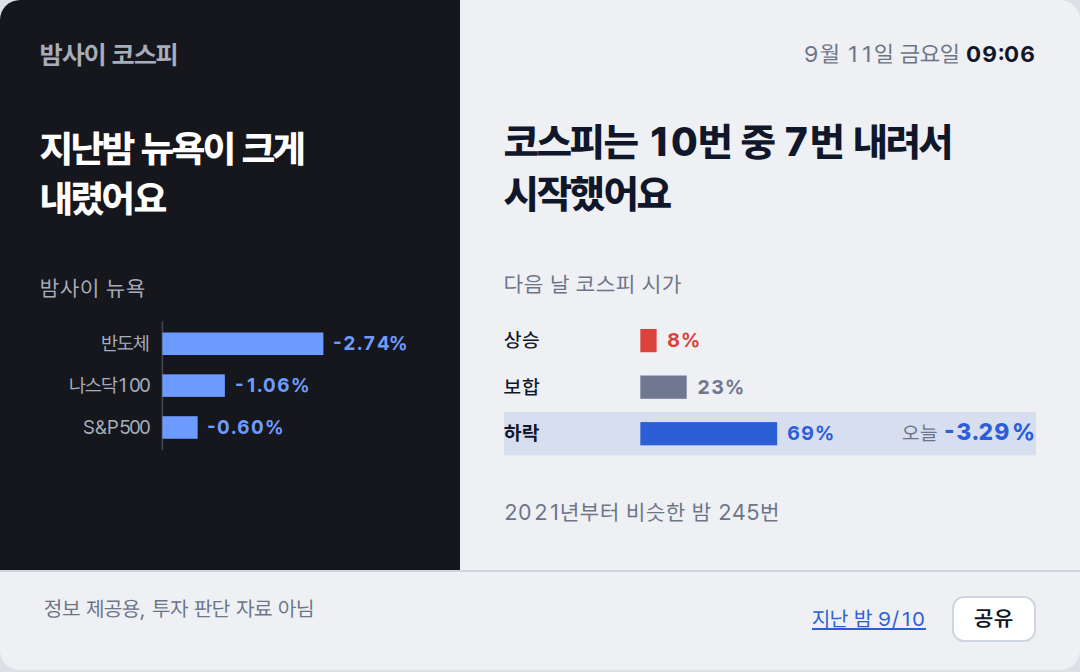
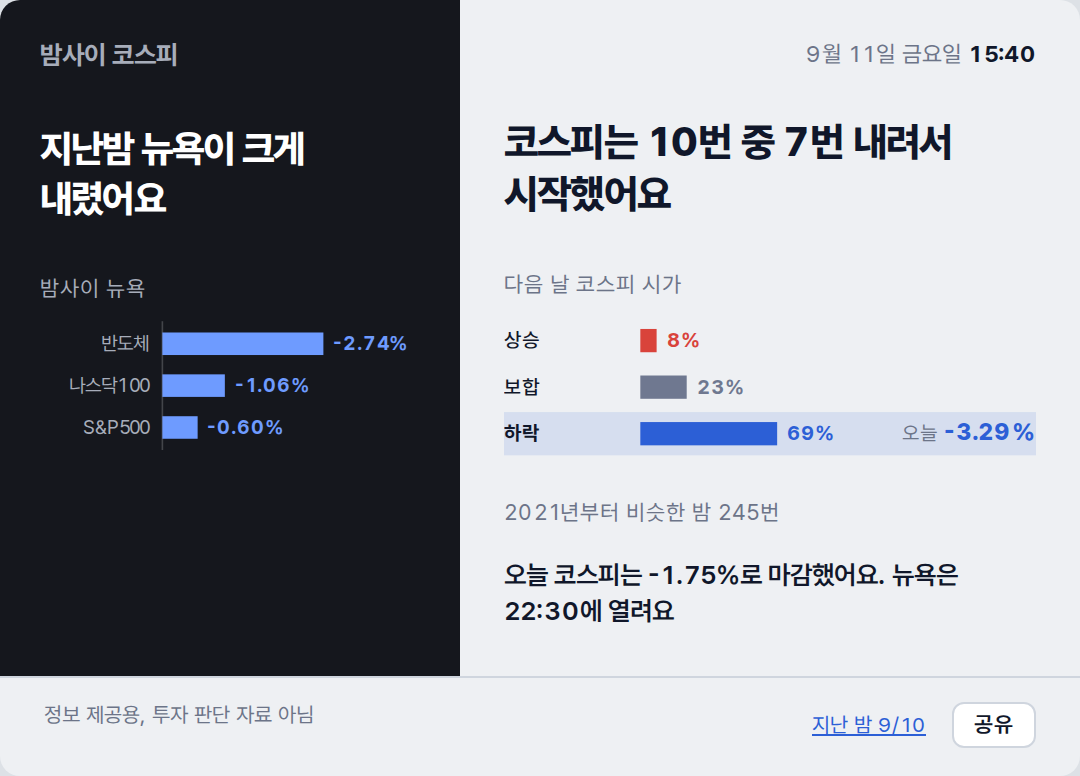
deploy: 75cc4f4932e6d10a8b135168aac73cace504a461

diff --git a/2026-09-11/index.html b/2026-09-11/index.html
@@ -38,7 +38,7 @@ footer a{color:#2C5FD6}
 <rect x="76" y="61" width="21.9" height="14" fill="var(--down)"/>
 <text x="103.9" y="72" fill="var(--down)" font-weight="700">-0.60%</text>
 </svg></section>
-<section class="day"><p class="stamp">9월 11일 금요일 <b>09:06</b></p><p class="claim">코스피는 10번 중 7번 내려서 시작했어요</p><p class="lab">다음 날 코스피 시가</p><svg viewBox="0 0 320 100" xmlns="http://www.w3.org/2000/svg" font-family="var(--sans)" font-size="12">
+<section class="day"><p class="stamp">9월 11일 금요일 <b>15:40</b></p><p class="claim">코스피는 10번 중 7번 내려서 시작했어요</p><p class="lab">다음 날 코스피 시가</p><svg viewBox="0 0 320 100" xmlns="http://www.w3.org/2000/svg" font-family="var(--sans)" font-size="12">
 <text x="0" y="20" fill="var(--ink)" font-weight="500">상승</text>
 <rect x="82" y="9" width="9.8" height="14" fill="var(--up)"/>
 <text x="97.8" y="20" fill="var(--up)" font-weight="700">8%</text>
@@ -50,7 +50,7 @@ footer a{color:#2C5FD6}
 <rect x="82" y="65" width="82.3" height="14" fill="var(--down)"/>
 <text x="170.3" y="76" fill="var(--down)" font-weight="700">69%</text>
 <text x="320" y="76" text-anchor="end" fill="var(--ink)"><tspan fill="var(--muted)">오늘 </tspan><tspan font-weight="800" font-size="14" fill="var(--down)">-3.29%</tspan></text>
-</svg><p class="cap">2021년부터 비슷한 밤 245번</p></section>
+</svg><p class="cap">2021년부터 비슷한 밤 245번</p><p class="tail">오늘 코스피는 -1.75%로 마감했어요. 뉴욕은 22:30에 열려요</p></section>
 <footer><span>정보 제공용, 투자 판단 자료 아님</span><span style="white-space:nowrap"><a href="../2026-09-10/">지난 밤 9/10</a> <button class="share" type="button">공유</button></span></footer>
 <script>
 /* 공유: Web Share가 있으면 시스템 공유 시트, 없으면 링크 복사. 링크는 이 날짜 페이지(OG 카드 붙음) */

diff --git a/index.html b/index.html
@@ -38,7 +38,7 @@ footer a{color:#2C5FD6}
 <rect x="76" y="61" width="21.9" height="14" fill="var(--down)"/>
 <text x="103.9" y="72" fill="var(--down)" font-weight="700">-0.60%</text>
 </svg></section>
-<section class="day"><p class="stamp">9월 11일 금요일 <b>09:06</b></p><p class="claim">코스피는 10번 중 7번 내려서 시작했어요</p><p class="lab">다음 날 코스피 시가</p><svg viewBox="0 0 320 100" xmlns="http://www.w3.org/2000/svg" font-family="var(--sans)" font-size="12">
+<section class="day"><p class="stamp">9월 11일 금요일 <b>15:40</b></p><p class="claim">코스피는 10번 중 7번 내려서 시작했어요</p><p class="lab">다음 날 코스피 시가</p><svg viewBox="0 0 320 100" xmlns="http://www.w3.org/2000/svg" font-family="var(--sans)" font-size="12">
 <text x="0" y="20" fill="var(--ink)" font-weight="500">상승</text>
 <rect x="82" y="9" width="9.8" height="14" fill="var(--up)"/>
 <text x="97.8" y="20" fill="var(--up)" font-weight="700">8%</text>
@@ -50,7 +50,7 @@ footer a{color:#2C5FD6}
 <rect x="82" y="65" width="82.3" height="14" fill="var(--down)"/>
 <text x="170.3" y="76" fill="var(--down)" font-weight="700">69%</text>
 <text x="320" y="76" text-anchor="end" fill="var(--ink)"><tspan fill="var(--muted)">오늘 </tspan><tspan font-weight="800" font-size="14" fill="var(--down)">-3.29%</tspan></text>
-</svg><p class="cap">2021년부터 비슷한 밤 245번</p></section>
+</svg><p class="cap">2021년부터 비슷한 밤 245번</p><p class="tail">오늘 코스피는 -1.75%로 마감했어요. 뉴욕은 22:30에 열려요</p></section>
 <footer><span>정보 제공용, 투자 판단 자료 아님</span><span style="white-space:nowrap"><a href="./2026-09-10/">지난 밤 9/10</a> <button class="share" type="button">공유</button></span></footer>
 <script>
 /* 공유: Web Share가 있으면 시스템 공유 시트, 없으면 링크 복사. 링크는 이 날짜 페이지(OG 카드 붙음) */
